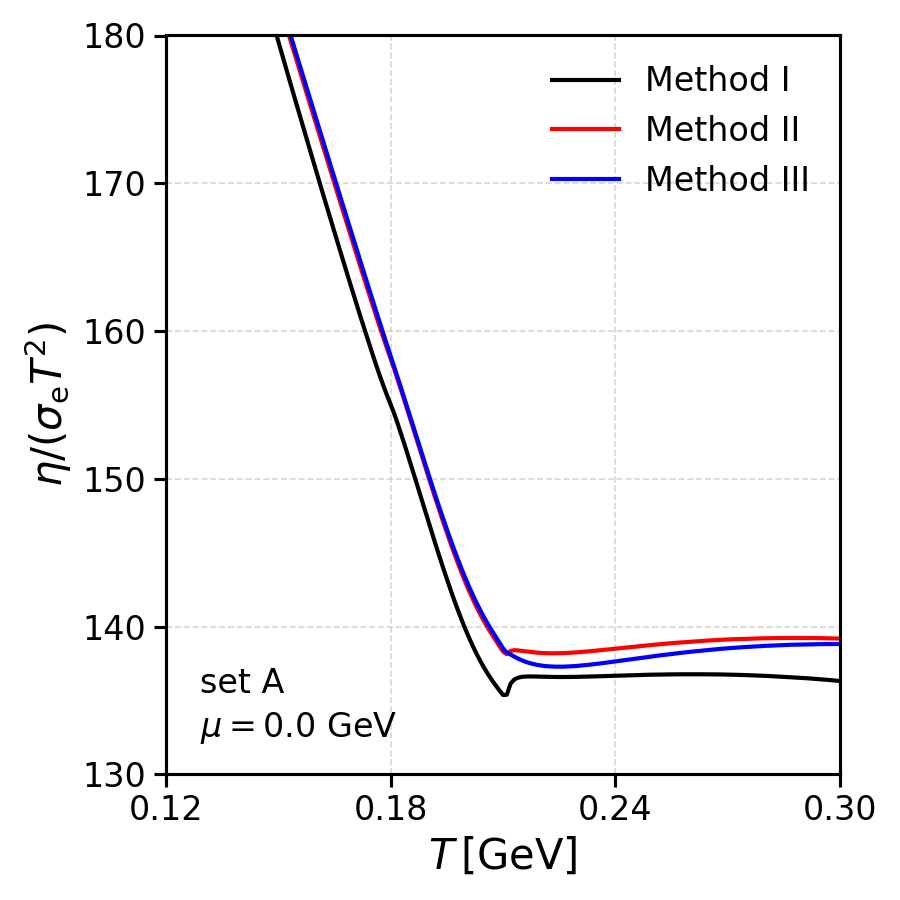
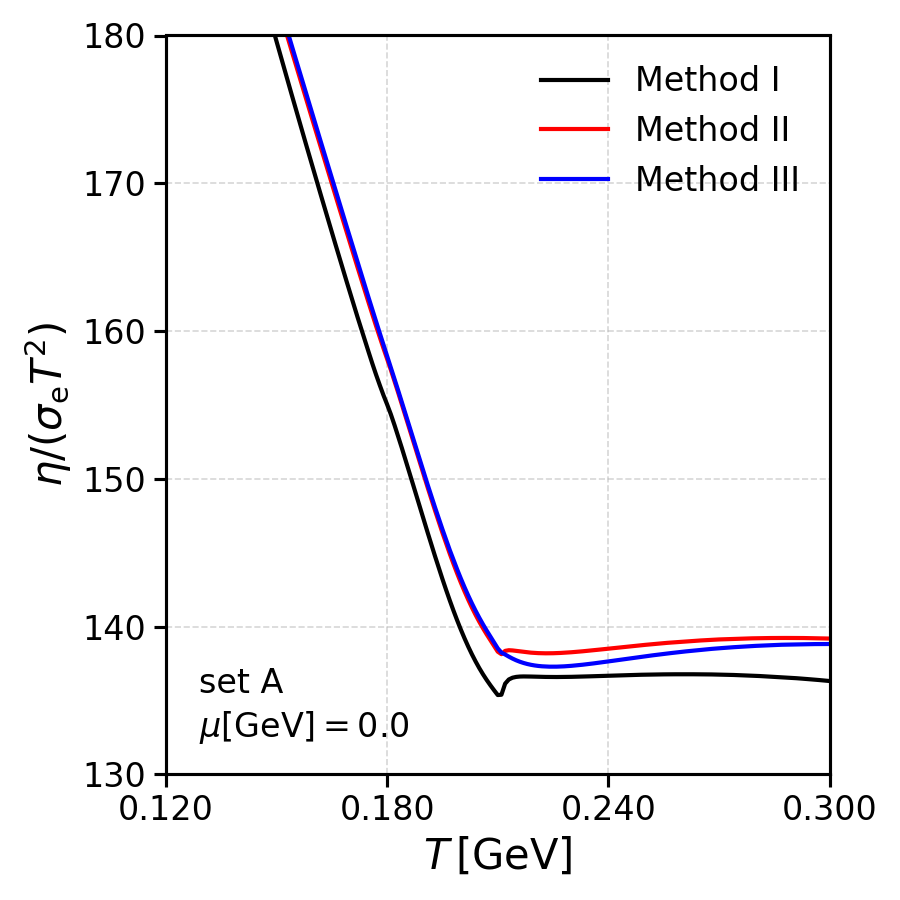
add eta and sigmae ratio plots passing through the CEP chemical potential; uniformize plots;

diff --git a/calculations/su3_3d_cutoff_transport_coefficients/plotting/generate_eta_sigmae_ratios_plots.py b/calculations/su3_3d_cutoff_transport_coefficients/plotting/generate_eta_sigmae_ratios_plots.py
@@ -12,7 +12,7 @@ fig_y_size = 6
 path_transport_data_folder = "su3_3d_cutoff_transport_coefficients/data/"
 path_output_plot_folder = "su3_3d_cutoff_transport_coefficients/plots/"
 
-datasets = [
+datasets_cp0 = [
     (
         path_transport_data_folder + "ShearViscosity_setA_COMPLETE_COV_CP0.dat", 
         path_transport_data_folder + "ElectricalConductivity_setA_COMPLETE_COV_CP0.dat", 
@@ -43,7 +43,7 @@ plot_eta_temp_over_sigmae_s_vs_temp(
     fig_dpi,
     fig_x_size,
     fig_y_size,
-    datasets,
+    datasets_cp0,
     "su3_3d_cutoff_thermodynamics/fixed_chem_pot_temp/data/SU3NJL3DCutoffFixedChemPotTemp_setA_TMin0p0_TMax0p5_CPU0p0.dat",
     path_output_plot_folder + "eta_temp_over_sigmae_s_vs_temp_methods_setA_CP0.png",
     "upper right",
@@ -51,21 +51,21 @@ plot_eta_temp_over_sigmae_s_vs_temp(
     ylim=(9.0, 18),
     x_num_ticks=4,
     y_num_ticks=4,
-    x_formatter="%.2f", 
+    x_formatter="%.3f", 
     y_formatter="%.1f",
     annotation_texts=[
         "set A",
-        r"$\mu = 0.0\ \mathrm{GeV}$",
+        r"$\mu [\mathrm{GeV}] = 0.0$",
     ],
     x_annotation=0.05,
-    y_annotation=0.05,
+    y_annotation=0.035,
 )
 
 plot_eta_temp_over_sigmae_s_vs_temp(
     fig_dpi,
     fig_x_size,
     fig_y_size,
-    datasets,
+    datasets_cp0,
     "su3_3d_cutoff_thermodynamics/fixed_chem_pot_temp/data/SU3NJL3DCutoffFixedChemPotTemp_setA_TMin0p0_TMax0p5_CPU0p0.dat",
     path_output_plot_folder + "eta_temp_over_sigmae_s_vs_temp_methods_setA_CP0_zoom.png",
     "upper right",
@@ -87,18 +87,18 @@ plot_eta_over_sigmae_temp2_vs_temp(
     fig_dpi,
     fig_x_size,
     fig_y_size,
-    datasets,
+    datasets_cp0,
     path_output_plot_folder + "eta_over_sigmae_temp2_vs_temp_methods_setA_CP0.png",
     "upper right",
     xlim=(0.120, 0.300),
     ylim=(130, 180),
     x_num_ticks=4,
     y_num_ticks=6,
-    x_formatter="%.2f", 
+    x_formatter="%.3f", 
     y_formatter="%.0f",
     annotation_texts=[
         "set A",
-        r"$\mu = 0.0\ \mathrm{GeV}$",
+        r"$\mu [\mathrm{GeV}] = 0.0$",
     ],
     x_annotation=0.05,
     y_annotation=0.05,
@@ -108,7 +108,7 @@ plot_eta_over_sigmae_temp2_vs_temp(
     fig_dpi,
     fig_x_size,
     fig_y_size,
-    datasets,
+    datasets_cp0,
     path_output_plot_folder + "eta_over_sigmae_temp2_vs_temp_methods_setA_CP0_zoom.png",
     "upper right",
     xlim=(0.200, 0.225),
@@ -119,7 +119,98 @@ plot_eta_over_sigmae_temp2_vs_temp(
     y_formatter="%.0f",
     annotation_texts=[
         "set A",
-        r"$\mu = 0.0\ \mathrm{GeV}$",
+        r"$\mu [\mathrm{GeV}] = 0.0$",
+    ],
+    x_annotation=0.05,
+    y_annotation=0.05,
+)
+
+datasets_cpcep = [
+    (
+        path_transport_data_folder + "ShearViscosity_setA_COMPLETE_COV_CPCEP.dat", 
+        path_transport_data_folder + "ElectricalConductivity_setA_COMPLETE_COV_CPCEP.dat", 
+        r"Method I", 
+        "black", 
+        2, 
+        "-"
+    ),
+    (
+        path_transport_data_folder + "ShearViscosity_setA_KLEVANSKY_CPCEP.dat", 
+        path_transport_data_folder + "ElectricalConductivity_setA_KLEVANSKY_CPCEP.dat", 
+        r"Method II", 
+        "red", 
+        2, 
+        "-"
+    ),
+        (
+        path_transport_data_folder + "ShearViscosity_setA_ZHUANG_CPCEP.dat", 
+        path_transport_data_folder + "ElectricalConductivity_setA_ZHUANG_CPCEP.dat", 
+        r"Method III", 
+        "blue", 
+        2, 
+        "-"
+    ),
+]
+
+plot_eta_temp_over_sigmae_s_vs_temp(
+    fig_dpi,
+    fig_x_size,
+    fig_y_size,
+    datasets_cpcep,
+    "su3_3d_cutoff_thermodynamics/fixed_chem_pot_temp/data/SU3NJL3DCutoffFixedChemPotTemp_SetA_TMin0p0_TMax0p5_CPU0p318434.dat",
+    path_output_plot_folder + "eta_temp_over_sigmae_s_vs_temp_methods_setA_CPCEP.png",
+    "upper right",
+    xlim=(0.040, 0.300),
+    ylim=(4.0, 12),
+    x_num_ticks=5,
+    y_num_ticks=5,
+    x_formatter="%.3f", 
+    y_formatter="%.1f",
+    annotation_texts=[
+        "set A",
+        r"$\mu [\mathrm{GeV}] = \mu_{\mathrm{CEP}}$",
+    ],
+    x_annotation=0.05,
+    y_annotation=0.035,
+)
+
+plot_eta_over_sigmae_temp2_vs_temp(
+    fig_dpi,
+    fig_x_size,
+    fig_y_size,
+    datasets_cpcep,
+    path_output_plot_folder + "eta_over_sigmae_temp2_vs_temp_methods_setA_CPCEP.png",
+    "upper right",
+    xlim=(0.040, 0.300),
+    ylim=(150, 300),
+    x_num_ticks=5,
+    y_num_ticks=4,
+    x_formatter="%.3f", 
+    y_formatter="%.0f",
+    annotation_texts=[
+        "set A",
+        r"$\mu [\mathrm{GeV}] = \mu_{\mathrm{CEP}}$",
+    ],
+    x_annotation=0.05,
+    y_annotation=0.05,
+)
+
+plot_eta_over_sigmae_temp2_vs_temp(
+    fig_dpi,
+    fig_x_size,
+    fig_y_size,
+    datasets_cpcep,
+    path_output_plot_folder + "eta_over_sigmae_temp2_vs_temp_methods_setA_CPCEP_zoom.png",
+    "upper right",
+    xlim=(0.065, 0.070),
+    ylim=(288, 300),
+    x_num_ticks=6,
+    y_num_ticks=6,
+    x_formatter="%.3f", 
+    y_formatter="%.0f",
+    annotation_texts=[
+        "set A",
+        r"$\mu [\mathrm{GeV}] = \mu_{\mathrm{CEP}}$",
     ],
     x_annotation=0.05,
     y_annotation=0.05,
